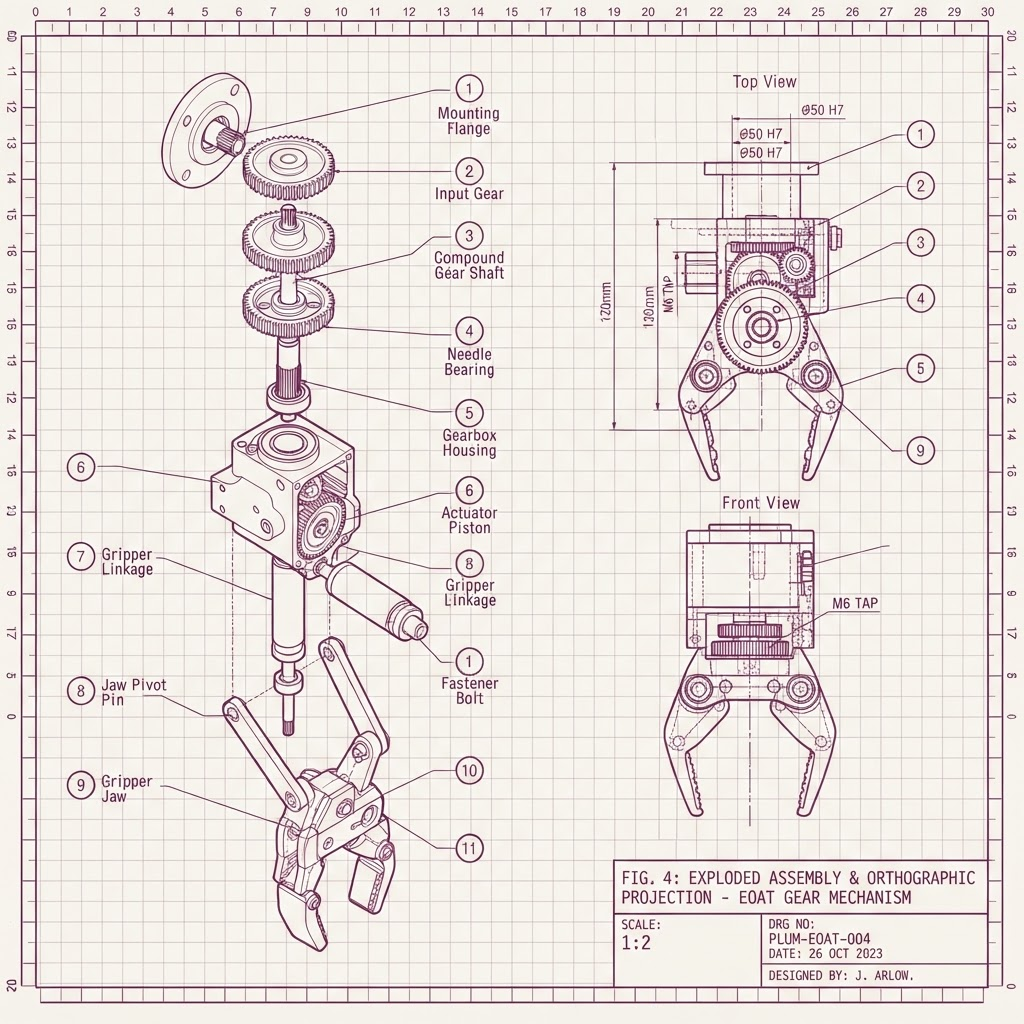
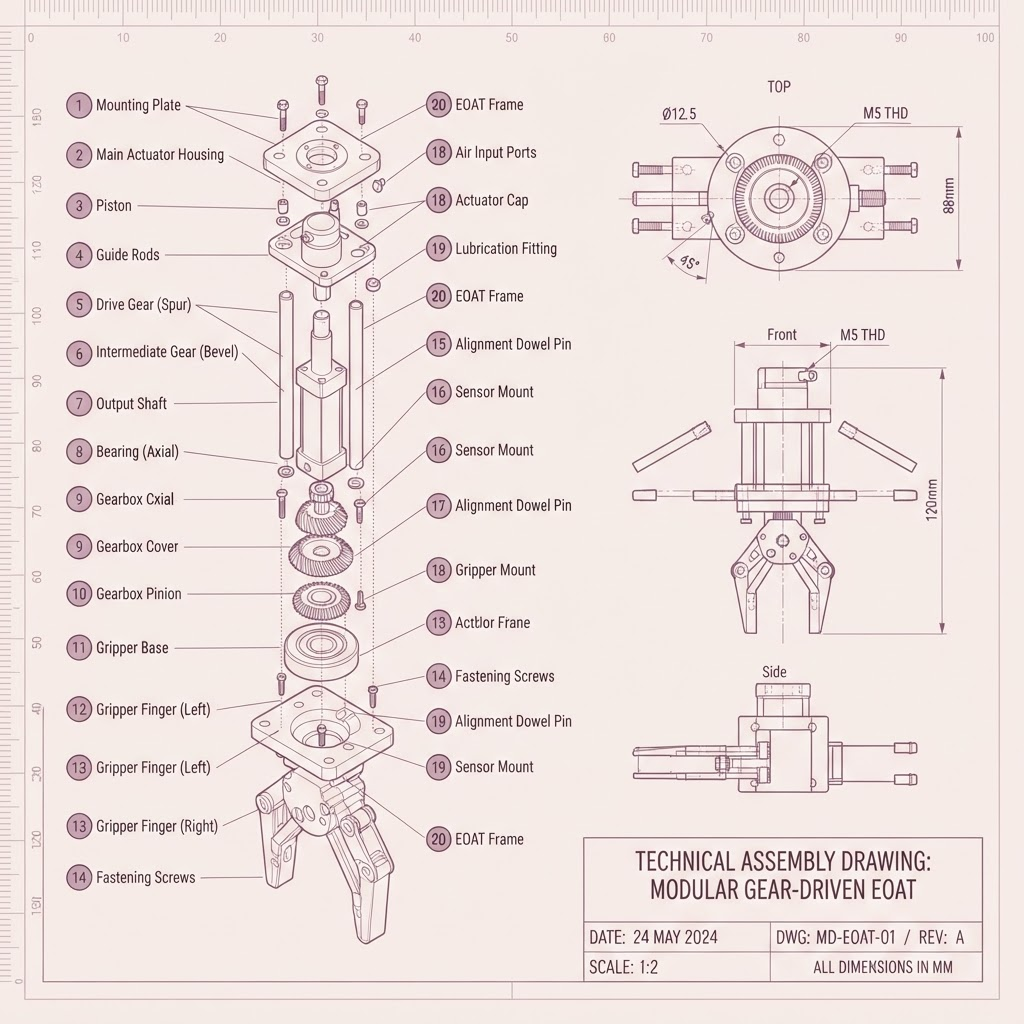
Rework works-in-progress as timeline and soften hero image background

Changed region(s): [[0.0, 0.0, 1.0, 1.0]]

diff --git a/components/home/works-in-progress.tsx b/components/home/works-in-progress.tsx
@@ -28,23 +28,29 @@ export function WorksInProgress() {
           </p>
         </div>
 
-        <div className="mt-12 space-y-8">
+        <ol className="mt-14 relative border-l border-border pl-8 md:pl-12">
           {items.map((item) => (
-            <div
-              key={item.slug}
-              className="grid gap-4 border-b border-border pb-8 md:grid-cols-[1fr_2fr] md:gap-8"
-            >
-              <div className="flex items-center gap-4">
-                <p className="text-sm text-muted-foreground">{formatStart(item.startDate)}</p>
-              </div>
-              <div>
-                <h3 className="font-serif text-xl font-semibold text-foreground">
-                  {item.title}
-                </h3>
-                <p className="mt-2 text-pretty leading-relaxed text-muted-foreground">
+            <li key={item.slug} className="relative pb-12 last:pb-0">
+              <span
+                aria-hidden
+                className="absolute -left-[calc(2rem+1px)] top-1.5 flex size-4 -translate-x-1/2 items-center justify-center md:-left-[calc(3rem+1px)]"
+              >
+                <span className="size-3 rounded-full bg-primary ring-4 ring-background" />
+              </span>
+
+              <div className="rounded-2xl border border-border bg-card p-6 shadow-sm transition-colors hover:border-primary/40 md:p-8">
+                <div className="flex flex-wrap items-baseline justify-between gap-x-4 gap-y-1">
+                  <h3 className="font-serif text-2xl font-semibold text-foreground">
+                    {item.title}
+                  </h3>
+                  <p className="font-serif text-sm uppercase tracking-[0.15em] text-primary">
+                    {formatStart(item.startDate)}
+                  </p>
+                </div>
+                <p className="mt-4 max-w-2xl text-pretty leading-relaxed text-muted-foreground">
                   {item.status ?? item.description}
                 </p>
-                <div className="mt-4 flex flex-wrap gap-2">
+                <div className="mt-6 flex flex-wrap gap-2">
                   {item.tags.map((tag) => (
                     <span
                       key={tag}
@@ -55,9 +61,9 @@ export function WorksInProgress() {
                   ))}
                 </div>
               </div>
-            </div>
+            </li>
           ))}
-        </div>
+        </ol>
       </div>
     </section>
   )
